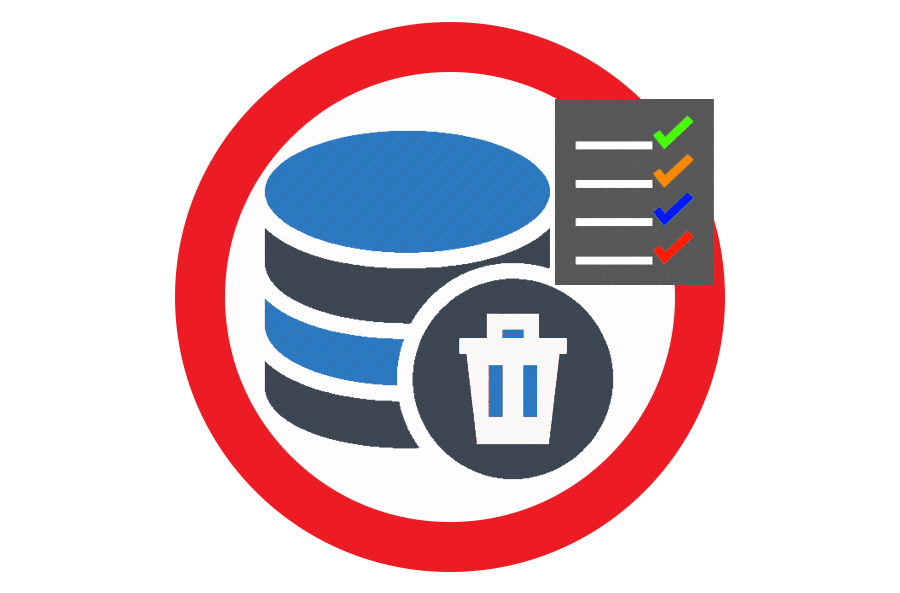
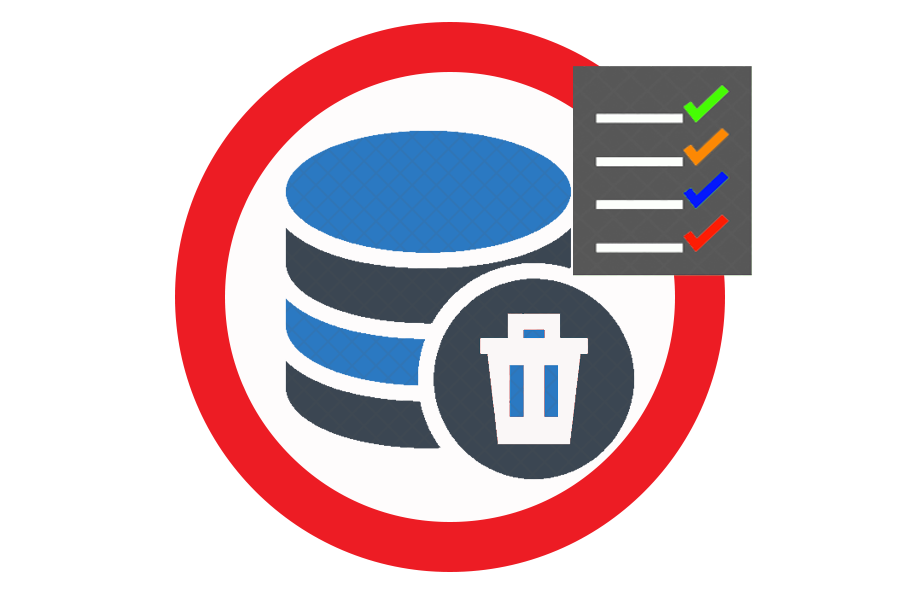
access to database entries set

Changed region(s): [[0.28, 0.0911, 0.84, 0.8196], [0.4667, 0.2125, 0.56, 0.2428]]

diff --git a/gui.py b/gui.py
@@ -25,6 +25,7 @@ class Ui_MainWindow(object):
         self.cwd = os.getcwd()
         self.number = "0"
         self.state = "Main"
+        self.db_stored = 0
         
         MainWindow.setObjectName("MainWindow")
         
@@ -56,8 +57,10 @@ class Ui_MainWindow(object):
         self.buttons.button4.clicked.connect(self.button4_click)
         self.buttons.button5.clicked.connect(self.button5_click)
         self.buttons.button6.clicked.connect(self.button6_click)
-        self.buttons.button8.clicked.connect(self.button8_click)
+        # self.buttons.button8.clicked.connect(self.button8_click)
         self.buttons.button9.clicked.connect(self.connectServer)
+        self.buttons.button10.clicked.connect(self.deleteXentries)
+        self.buttons.button11.clicked.connect(self.deleteAllentries)
 
     def takeinputs(self):
         Number, ok = QtWidgets.QInputDialog.getText(
@@ -75,8 +78,8 @@ class Ui_MainWindow(object):
     def confirmDeletation(self):
         msgBox = QtWidgets.QMessageBox()
         msgBox.setIcon(QtWidgets.QMessageBox.Information)
-        msgBox.setText("This action will delete the last entry\nfrom server. Do you want to proceed?")
-        msgBox.setWindowTitle("This action is irreversible!")
+        msgBox.setText("This action is irreversible!\nDo you still want to proceed?")
+        msgBox.setWindowTitle("Cleanup protocol")
         msgBox.setStandardButtons(QtWidgets.QMessageBox.Ok | QtWidgets.QMessageBox.Cancel)
         # msgBox.buttonClicked.connect(msgButtonClick)
         returnValue = msgBox.exec()
@@ -85,7 +88,21 @@ class Ui_MainWindow(object):
             return True
         else:
             return False
-            
+    
+    def confirmAllDeletation(self):
+        msgBox = QtWidgets.QMessageBox()
+        msgBox.setIcon(QtWidgets.QMessageBox.Information)
+        msgBox.setText("This action will cleanup all the entries from the current session\nand is irreversible! Do you still want to proceed?")
+        msgBox.setWindowTitle("Cleanup protocol")
+        msgBox.setStandardButtons(QtWidgets.QMessageBox.Ok | QtWidgets.QMessageBox.Cancel)
+        # msgBox.buttonClicked.connect(msgButtonClick)
+        returnValue = msgBox.exec()
+        if returnValue == QtWidgets.QMessageBox.Ok:
+            print('OK clicked')
+            return True
+        else:
+            return False
+    
     def action_Switch(self):
         if self.state == "Main":
             self.init_device()
@@ -95,7 +112,7 @@ class Ui_MainWindow(object):
     def action_Exit(self):
         if self.state == "Settings":
             self.loadMain()
-        elif self.state == "showCommPorts":
+        elif self.state == "dbSettings":
             self.goto_settings()
         elif self.state == "credits":
             self.goto_settings()
@@ -121,17 +138,13 @@ class Ui_MainWindow(object):
             self.buttons.button2.setEnabled(False)
             self.buttons.button3.hide()
             self.buttons.button3.setEnabled(False)
-            # self.grapics.status.hide() 
             self.grapics.ring.hide()
             self.grapics.click_to.hide()
-        elif self.state == "showCommPorts":
-            # self.actionSwitch.disconnect()
-            # self.grapics.showPorts.setEnabled(False)
-            # self.grapics.showPorts.hide()
-            # self.grapics.selectedPort.hide()
-            # self.grapics.selectedPort.hide()
-            self.buttons.button8.hide()
-            self.buttons.button8.setEnabled(False)
+        elif self.state == "dbSettings":
+            self.buttons.button10.setEnabled(False)
+            self.buttons.button10.hide()
+            self.buttons.button11.setEnabled(False)
+            self.buttons.button11.hide()
             # self.grapics.click_to.hide()
         elif self.state == "credits":
             self.grapics.credits.hide()
@@ -179,7 +192,7 @@ class Ui_MainWindow(object):
         self.state = "Main"
     
     def gotoCommPorts(self):
-        self.state = "showCommPorts"
+        self.state = "dbSettings"
         # self.actionSwitch.activated.connect(self.action_Switch)
         self.buttons.button4.show()
         self.buttons.button4.setEnabled(True)
@@ -189,19 +202,10 @@ class Ui_MainWindow(object):
         self.buttons.button6.setEnabled(False)
         self.buttons.button7.hide()
         self.buttons.button7.setEnabled(False)
-        self.buttons.button8.show()
-        self.buttons.button8.setEnabled(True)
         self.buttons.button10.show()
         self.buttons.button10.setEnabled(True)
         self.buttons.button11.show()
         self.buttons.button11.setEnabled(True)
-        # self.grapics.availablePorts()
-        # self.grapics.showPorts.show()
-        # self.grapics.connectedport()
-        # self.grapics.selectedPort.show()
-        # self.grapics.click_to.setText("CLICK SPACE TO SWITCH PORTS")
-        # self.grapics.click_to.show()
-        # self.grapics.click_to.adjustSize()
 
     def loadRegistration(self):
         self.state = "initiate"
@@ -248,6 +252,7 @@ class Ui_MainWindow(object):
                     print("correct number length")
                     if self.db.checkInternetSocket():
                         self.commDev.auto_establish_comm()
+                        time.sleep(1)
                         if self.commDev.connectedPort is not None:
                             if self.commDev.sc_state == 1:
                                 try:
@@ -264,6 +269,8 @@ class Ui_MainWindow(object):
                                 time.sleep(1)
                                 if self.db.addNew(Id[4:], self.number, pswd, datetime.now()):
                                     self.qr.genQR(Id[4:],self.number)
+                                    self.db_stored += 1
+                                    print("Initiated in this session", self.db_stored)
                                 else:
                                     print("Duplicate mobile number")
                                     self.commDev.communication = 0
@@ -311,7 +318,7 @@ class Ui_MainWindow(object):
     def button4_click(self):
         if self.state == "Settings":
             self.loadMain()
-        elif self.state == "showCommPorts":
+        elif self.state == "dbSettings":
             self.goto_settings()
         elif self.state == "credits":
             self.goto_settings()
@@ -347,6 +354,28 @@ class Ui_MainWindow(object):
         # if self.commDev.connectedPort is None:
         #     self.grapics.ring.setEnabled(False)
         pass
+    
+    def takeXentries(self):
+        Number, ok = QtWidgets.QInputDialog.getText(
+             self.centralwidget , 'Clear Records', 'How many entries you want to delete?')
+        if ok:
+            try:
+                # print(Number)
+                self.Xnumber = str(Number)
+            except IndexError:
+                pass
+        else:
+            return False
+        return self.Xnumber
+    
+    def deleteXentries(self):
+        if self.takeXentries():
+            if self.confirmDeletation():
+                self.db.clearEntries(int(self.Xnumber))
+                
+    def deleteAllentries(self):
+        if self.confirmAllDeletation():
+            self.db.clearEntries(self.db_stored)
 
     def online(self):
         # time.sleep(1)

diff --git a/Buttons.py b/Buttons.py
@@ -14,7 +14,7 @@ class buttons:
         self.pushbutton5()
         self.pushbutton6()
         self.pushbutton7()
-        self.pushbutton8()
+        # self.pushbutton8()
         self.reconnectServer()
         self.delete_allEntries()
         self.delete_entries()
@@ -91,7 +91,7 @@ class buttons:
         self.button5.hide()
         self.button5.setObjectName("credits")
         
-    def pushbutton6(self): # show available comports
+    def pushbutton6(self): # show server settings
         self.button6 = QtWidgets.QPushButton(self.centralwidget)
         self.button6.setGeometry(QtCore.QRect(cg.button1_x+10,cg.button1_y-50, cg.button6_width, cg.button6_height))
         icon = QtGui.QIcon()
@@ -130,7 +130,7 @@ class buttons:
         self.button8.hide()
         self.button8.setObjectName("changeCommPort") 
         
-    def reconnectServer(self):
+    def reconnectServer(self): # reconnect server
         self.button9 = QtWidgets.QPushButton(self.centralwidget)
         self.button9.setGeometry(QtCore.QRect(cg.button9_x, cg.button9_y, cg.button9_width, cg.button9_height))
         icon = QtGui.QIcon()
@@ -142,26 +142,26 @@ class buttons:
         self.button9.setEnabled(True)
         self.button9.setObjectName("reconnectServer")
         
-    def delete_entries(self):
+    def delete_entries(self): # delete a number of entries
         self.button10 = QtWidgets.QPushButton(self.centralwidget)
-        self.button10.setGeometry(QtCore.QRect(cg.button1_x-10,cg.button1_y-40, 140, 140))
+        self.button10.setGeometry(QtCore.QRect(cg.button10_x, cg.button10_y, cg.button10_width, cg.button10_height))
         icon = QtGui.QIcon()
         icon.addPixmap(QtGui.QPixmap(self.cwd+"/"+cg.del_entries), QtGui.QIcon.Active, QtGui.QIcon.On)
         self.button10.setIcon(icon)
-        self.button10.setIconSize(QtCore.QSize(140, 140))
+        self.button10.setIconSize(QtCore.QSize(cg.button10_width, cg.button10_height))
         self.button10.setStyleSheet("border-radius : 50; border : .1px solid black")
         self.button10.setCheckable(False)
         self.button10.setEnabled(False)
         self.button10.hide()
         self.button10.setObjectName("delete_entries")
         
-    def delete_allEntries(self):
+    def delete_allEntries(self): # delete all entries
         self.button11 = QtWidgets.QPushButton(self.centralwidget)
-        self.button11.setGeometry(QtCore.QRect(cg.button1_x-10,cg.button1_y+100, 140, 140))
+        self.button11.setGeometry(QtCore.QRect(cg.button10_x, cg.button10_y+150, cg.button10_width, cg.button10_height))
         icon = QtGui.QIcon()
         icon.addPixmap(QtGui.QPixmap(self.cwd+"/"+cg.del_all_entries), QtGui.QIcon.Active, QtGui.QIcon.On)
         self.button11.setIcon(icon)
-        self.button11.setIconSize(QtCore.QSize(140, 140))
+        self.button11.setIconSize(QtCore.QSize(cg.button10_width, cg.button10_height))
         self.button11.setStyleSheet("border-radius : 50; border : .1px solid black")
         self.button11.setCheckable(False)
         self.button11.setEnabled(False)

diff --git a/config.py b/config.py
@@ -36,6 +36,9 @@ button8_width, button8_height = 58, 58
 button9_x,button9_y = 1250, 20
 button9_height, button9_width = 45, 45
 
+button10_x,button10_y = 620, 300
+button10_height, button10_width = 140, 140
+
 indicator_x, indicator_y = 60, 60
 indicator_width = 100
 indicator_height = 100

diff --git a/SerialComm.py b/SerialComm.py
@@ -88,6 +88,7 @@ class commDev:
 if __name__ == "__main__":
     a = commDev()
     a.auto_establish_comm()
+    a.sc.flush()
     # a.communicate('12345678901234567890')
     # p = str(11111111111111111111).encode()
     # print(len(p))
